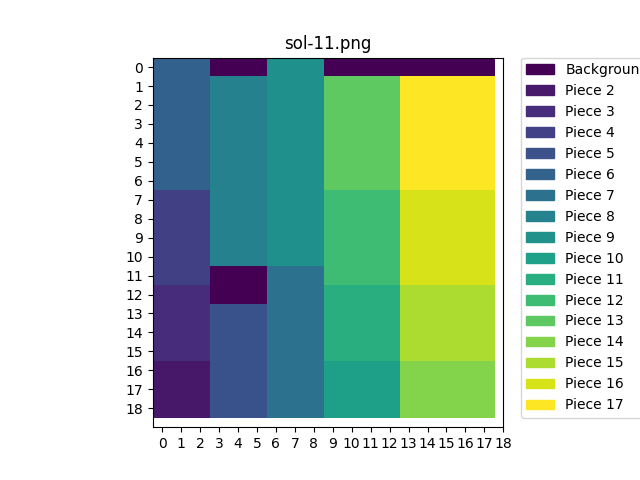
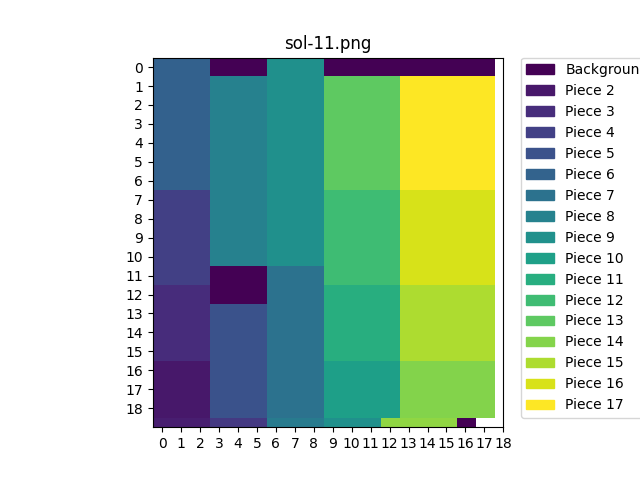
adding missing solutions

Changed region(s): [[0.2188, 0.8438, 0.75, 0.9062]]

diff --git a/src/minizinc/sol/solution_to_picture.py b/src/minizinc/sol/solution_to_picture.py
@@ -19,7 +19,8 @@ def read_parameters(f):
     for i in range(n_circuits):
         line = file.readline()
         split_line = line.replace("\n", "").split(" ")
-        coordinates.append(tuple(map(int, split_line)))
+        if len(split_line)==4:
+            coordinates.append(tuple(map(int, split_line)))
 
     # print(coordinates)
     return dim, n_circuits, coordinates
@@ -89,15 +90,18 @@ if __name__ == "__main__":
     if len(sys.argv) == 3:
         out_path = sys.argv[2]
     files = os.listdir(in_path)
+    heights = {}
 
     for f in files:
         obj = re.search("^sol-[0-9]+.txt", f)
         if obj is not None:
+            print(f)
             dim, n_circuits, shapes = read_parameters(f)
+            heights[f]=dim[1]
             solution = draw_solution(dim, shapes)
             # print(solution)
             new_f = f.replace("txt", "png")
             show_shape(solution, new_f, n_circuits)
-
+    print(heights)
 else:
     print("Error")

diff --git a/src/minizinc/model_executor.py b/src/minizinc/model_executor.py
@@ -66,6 +66,8 @@ if __name__ == "__main__":
     print("model file",model_file)
     time_limit = 300*1000
     for f in files:
+        if f.__contains__("40"):
+            continue
         begin_time = time.time_ns()
         print(f)
         stream = cmd(f"minizinc {model_file} -d {data_path}/{f}  --solver-time-limit {time_limit}")
